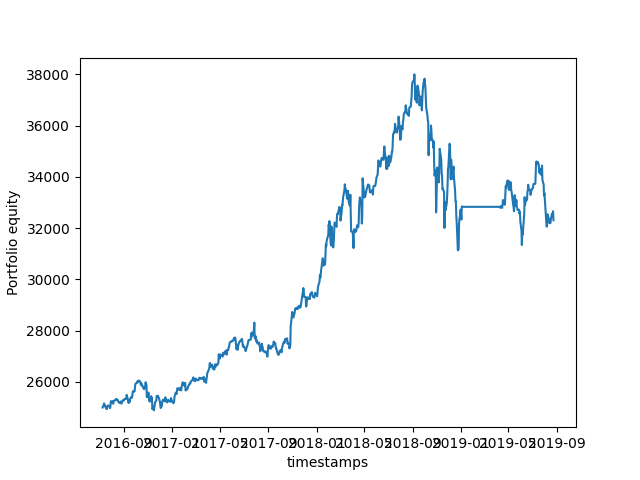
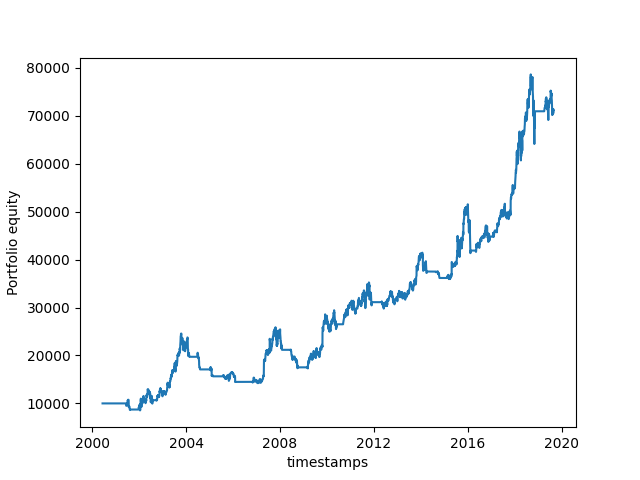
Cleanup bugs regarding data and intervals, etc

diff --git a/algotaf/backend/strategies/crossover_strategy.py b/algotaf/backend/strategies/crossover_strategy.py
@@ -15,8 +15,8 @@ class CrossoverStrategy(Strategy):
 	def __init__(self, short_period=50, long_period=200):
 		self.long_period = long_period
 		self.short_period = short_period
+		self.interval = Interval.DAY
 		self.is_bought = False
-		self.curr_date = None
 
 	def set_up(self):
 		self.curr_date = self.env.get_time().date()
@@ -31,36 +31,39 @@ class CrossoverStrategy(Strategy):
 	def get_orders(self):
 		curr_time = self.env.get_time()
 		if self.curr_date == curr_time.date():
-			return [], Interval.DAY
+			return []
+		self.curr_date = curr_time.date()
 
 		sma_short = self.get_sma(TEST_STOCK, self.short_period)
 		sma_long = self.get_sma(TEST_STOCK, self.long_period)
-		# print(curr_time)
-		# print('short - long: ', sma_short - sma_long)
 
-		quote = self.env.get_quote(TEST_STOCK)
+		quote = self.env.get_quote(TEST_STOCK, daily=True)
+		if quote['open'] is None:
+			return []
 		price = (quote['open'] + quote['close']) / 2
+		
 		if not self.is_bought and sma_short > sma_long:
 			print(curr_time.date())
 			print('short: ', sma_short)
 			print('long: ', sma_long)
-			print('buy at: ', price, '\n')
 			self.is_bought = True
-			return [Order(TEST_STOCK, curr_time, None, buy=True, limit=False, limit_price=0, shares=10)], Interval.DAY
+			self.num_shares = (self.env.get_portfolio().funds / price) / 2
+			print('buy %d shares at %f' % (self.num_shares, price), '\n')
+			return [Order(TEST_STOCK, curr_time, None, buy=True, limit=False, limit_price=0, shares=self.num_shares)]
 		elif self.is_bought and sma_long > sma_short:
 			print(curr_time.date())
 			print('short: ', sma_short)
 			print('long: ', sma_long)
-			print('sell at: ', price, '\n')
+			print('sell %d shares at %f' % (self.num_shares, price), '\n')
 			self.is_bought = False
-			return [Order(TEST_STOCK, curr_time, None, buy=False, limit=False, limit_price=0, shares=10)], Interval.DAY
+			return [Order(TEST_STOCK, curr_time, None, buy=False, limit=False, limit_price=0, shares=self.num_shares)]
 
-		return [], Interval.DAY
+		return []
 
 def main():
-    strat = CrossoverStrategy(short_period=75, long_period=400)
+    strat = CrossoverStrategy(short_period=40, long_period=200)
     portfolio = Portfolio('CrossoverStrategy')
-    env = Backtester(strat, portfolio, start_time=datetime(2016, 7, 8, 0, 0, 0), end_time=datetime(2019, 8, 23, 20, 0, 0))
+    env = Backtester(strat, portfolio, start_time=datetime(2000, 6, 10, 0, 0, 0), end_time=datetime(2019, 8, 23, 20, 0, 0))
     env.run()
 
     plt.plot(portfolio.equity_times, portfolio.equity_history)

diff --git a/algotaf/backend/testers/back_tester.py b/algotaf/backend/testers/back_tester.py
@@ -1,4 +1,4 @@
-from datetime import datetime, timedelta
+from datetime import datetime, timedelta, time
 from algotaf.backend.simulator.config import TIME, INTERVAL, DATA
 from algotaf.backend.simulator.Portfolio import Portfolio, Interval
 from algotaf.backend.simulator.Order import Order
@@ -97,28 +97,41 @@ class Backtester(StrategyEnvironment):
         self.curr_time = start_time
         self.portfolio = portfolio
         self.strategy = strategy
+        self.interval = self.strategy.interval
 
         self.strategy.env = self
         self.portfolio.env = self
 
+
     def run(self):
+        self.strategy.set_up()
         while self.curr_time < self.end_time:
             self.tick()
 
-    def tick(self):
-        if self.get_quote('amzn')['open'] != None:
-            self.portfolio.update()
-            orders, interval = self.strategy.get_orders()
-            for order in orders:
-                self.portfolio.add_position(order)
-        else:
-            interval = Interval.MINUTE1
+    def time_is_valid(self):
+        is_valid = True
 
-        if interval != Interval.ASAP and interval != Interval.ALL:
-            self.curr_time += Interval.to_timedelta(interval)
-        else:
-            print('Invalid interval\n')
-            exit()
+        if self.curr_time.weekday() >= 5:
+            self.curr_time += Interval.to_timedelta(Interval.MINUTE1)
+            return False
+
+        if self.curr_time.time() <= time(9, 30, 0) or self.curr_time.time() >= time(20, 0, 0):
+            self.curr_time += Interval.to_timedelta(Interval.MINUTE1)
+            return False
+
+        return True
+
+    def tick(self):
+        if not self.time_is_valid():
+            return
+
+        self.portfolio.update()
+        orders = self.strategy.get_orders()
+        for order in orders:
+            self.portfolio.add_position(order)
+
+        self.curr_time += Interval.to_timedelta(self.interval)
+
 
     def get_quote(self, ticker, timestamp=None, daily=False):
         if timestamp is None:
@@ -136,6 +149,7 @@ class Backtester(StrategyEnvironment):
         
         return quote
 
+
     def get_quote_interval(self, ticker, start_date, end_date, daily=True):
         quotes = []
         if daily:
@@ -151,6 +165,7 @@ class Backtester(StrategyEnvironment):
             quotes.append(self.get_quote(ticker, timestamp=time, daily=daily))
 
         return quotes
+
 
     def get_time(self):
         return self.curr_time

diff --git a/algotaf/backend/simulator/Portfolio.py b/algotaf/backend/simulator/Portfolio.py
@@ -118,7 +118,7 @@ class Portfolio:
         self.watch_list = {}
         self.orders = []
         self.history = {}
-        self.funds = 25000
+        self.funds = 10000
         self.diff = 0
         self.total_equity = 0
 
@@ -426,7 +426,8 @@ class Portfolio:
         prev_position = self.positions[order.ticker]
         
         quote = self.env.get_quote(order.ticker)
-        curr_price = 0
+        if quote['open'] == None:
+            quote = self.env.get_quote(order.ticker, daily=True)
 
         if quote['open'] and quote['close']:
             curr_price = (quote['open'] + quote['close']) / 2
@@ -434,8 +435,8 @@ class Portfolio:
             if seen_ticker:
                 curr_price = prev_position.cur_quote
             else:
+                print(self.env.curr_time)
                 print("Invalid date")
-                exit()
                 return
 
         cost = curr_price * order.shares
@@ -510,6 +511,8 @@ class Portfolio:
         current_equity = 0
         for ticker, position in self.positions.items():
             quote = self.env.get_quote(ticker)
+            if quote['open'] == None:
+                quote = self.env.get_quote(ticker, daily=True)
             # val = eval_quote(quote)
             if quote['open'] and quote['close']:
                 price = (quote['open'] + quote['close']) / 2

diff --git a/algotaf/backend/simulator/HistoricalData.py b/algotaf/backend/simulator/HistoricalData.py
@@ -33,7 +33,6 @@ class HistoricalData:
                        'high',
                        'low',
                        'close',
-                       'adjusted_close',
                        'volume',
                        'dividend_amount',
                        'split_coefficient')
@@ -67,7 +66,6 @@ class HistoricalData:
                        'high',
                        'low',
                        'close',
-                       'adjusted_close',
                        'volume',
                        'dividend_amount',
                        'split_coefficient')
@@ -76,10 +74,7 @@ class HistoricalData:
                 if row[0] not in self.tickers[ticker]:
                     self.tickers[ticker][row[0]] = {}
                 for i, col in enumerate(row[1:]):
-                    # print(row[0])
                     self.tickers[ticker][row[0]][columns[i]] = col
-
-            # print('end of daily')
 
             table_name = 'data_intraday_%s' % ticker
             raw_data = db.get_data_interval(self.conn, table_name, start_date, end_date)

diff --git a/algotaf/backend/db/db_wrapper.py b/algotaf/backend/db/db_wrapper.py
@@ -26,7 +26,7 @@ def get_data_interval(conn, table_name, start_date, end_date, pandas=False):
     data = cur.fetchall()
     cur.close()
     if pandas:
-        data = pd.DataFrame.from_records(data, columns = ['timestamp', 'open', 'high', 'low', 'close', 'adjusted_close', 'volume', 'dividend', 'split'])
+        data = pd.DataFrame.from_records(data, columns = ['timestamp', 'open', 'high', 'low', 'close', 'volume', 'dividend', 'split'])
     return data
 
 
